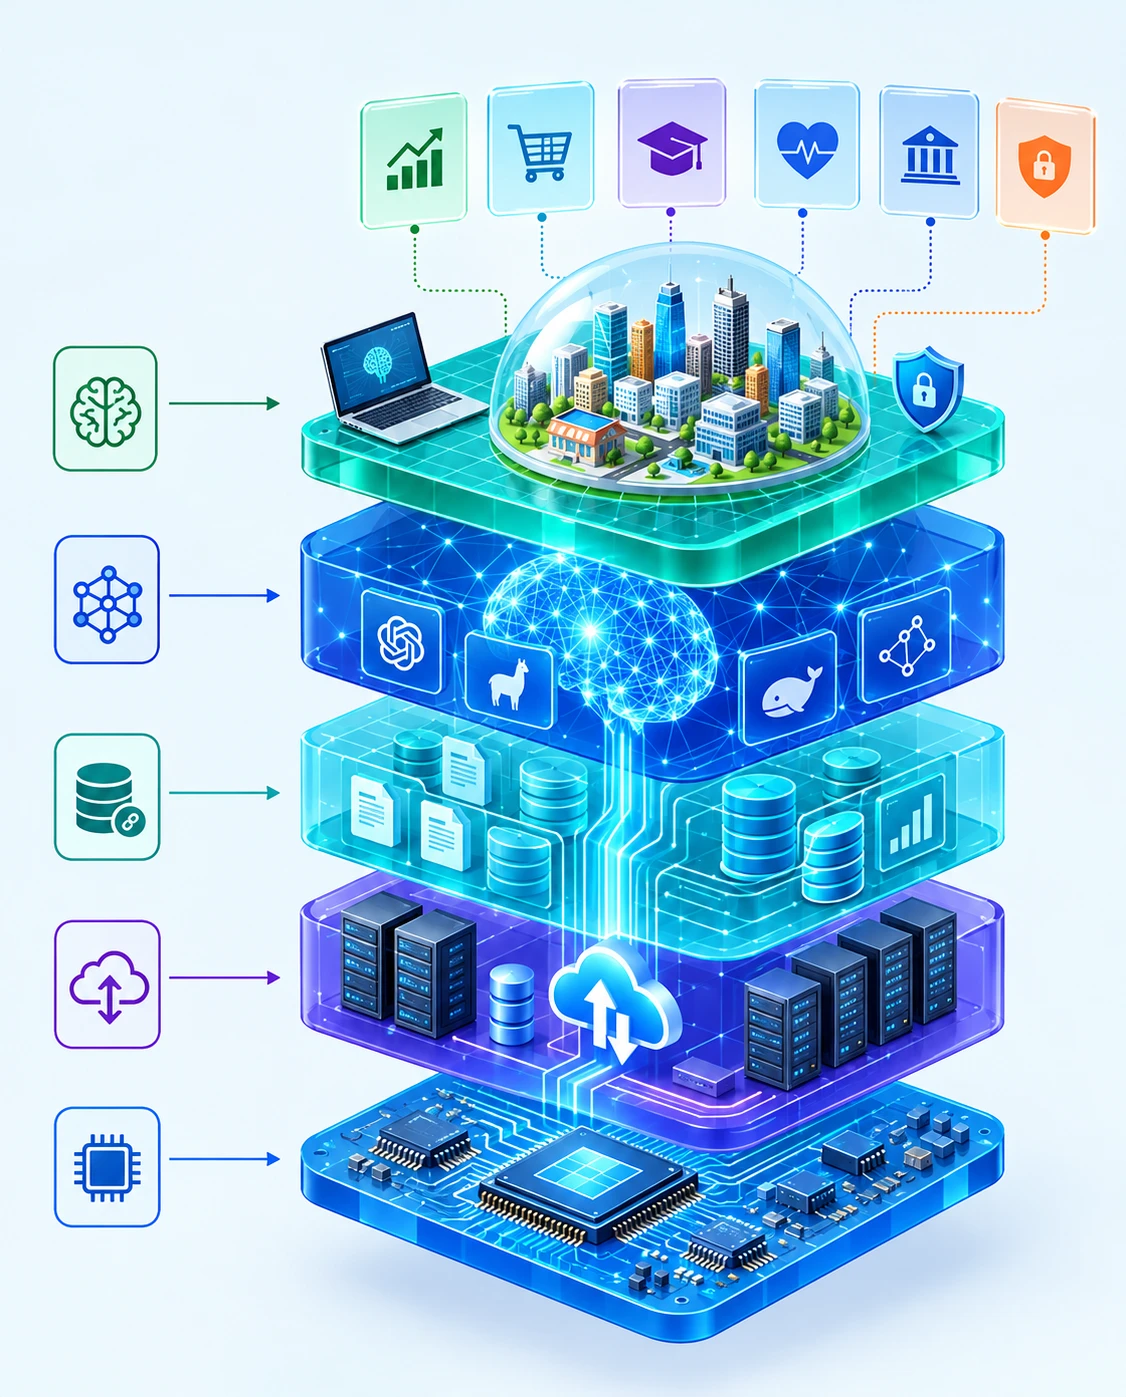
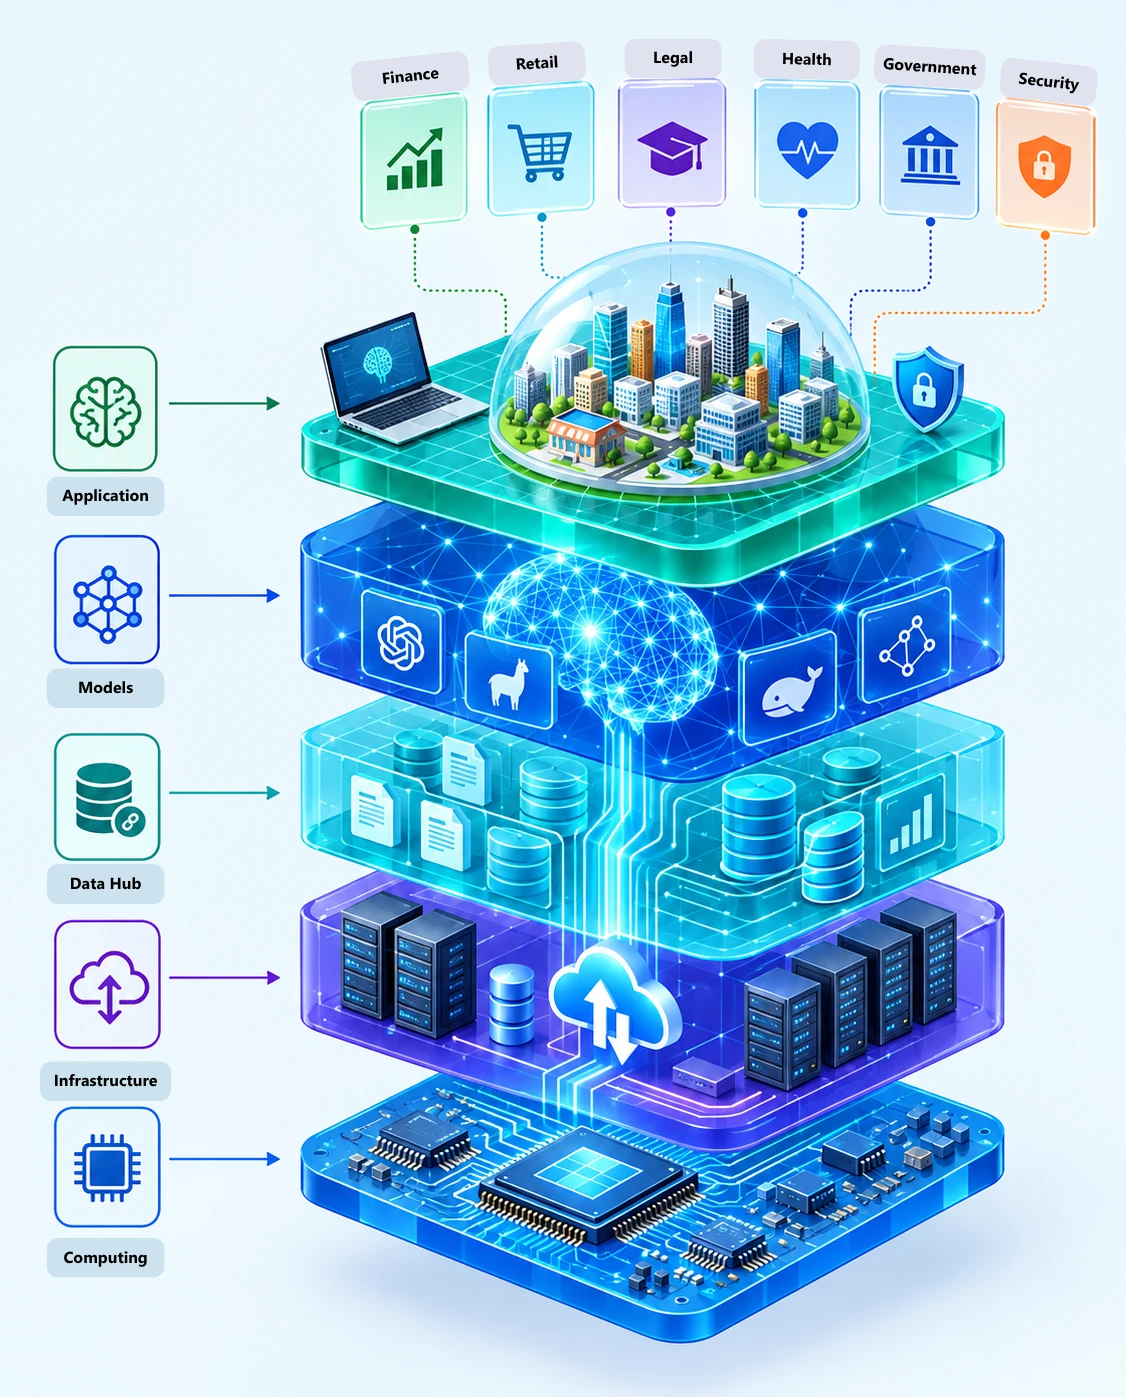
Take the labelled cut of the stack, and describe it properly
The illustration now names its own layers — computing, infrastructure,
data hub, models, application — and the industries across the top. Same
1126x1397 frame, so nothing about the layout moves.

WebP of the three formats offered. The SVG is 2.6MB and buys nothing: its
illustration is a base64 raster at the same pixel size with only the
labels as vector, and the hero renders the whole thing at 0.374 scale, so
there is no resolution to recover. 280KB against 2.6MB for an identical
result.

The alt text was `section.title`, which reads the offer back to a screen
reader that has just been given it and says nothing about what is on
screen. It describes the picture now, and `meta.imageAlt` overrides it
from a new field on the form.

diff --git a/src/components/sections/hero.tsx b/src/components/sections/hero.tsx
@@ -181,9 +181,13 @@ export function Hero({ section }: { section: SectionWithEntries }) {
               <HeroMedia
                 image={image}
                 video={video}
+                // Describes the picture, not the headline. The first cut of
+                // this passed `section.title`, which reads back the offer a
+                // screen reader has just been given and says nothing about
+                // what is being shown.
                 alt={
-                  section.title ??
-                  "The BasinWright stack, from chips up to the application"
+                  metaString(section.meta, "imageAlt") ??
+                  "The BasinWright stack in five layers — computing at the base, then infrastructure, the data hub, models, and the application on top, serving finance, retail, legal, health, government and security."
                 }
               />
             </motion.div>

diff --git a/src/components/admin/section-form.tsx b/src/components/admin/section-form.tsx
@@ -90,6 +90,14 @@ export function SectionForm({ section }: { section: SectionWithEntries }) {
               defaultValue={String(metaValue(section.meta, "video") ?? "")}
               placeholder="/media/basinwright-explainer.mp4"
             />
+
+            <TextField
+              label="Image description"
+              hint="what the picture shows, for screen readers — not a repeat of the headline"
+              name="metaImageAlt"
+              defaultValue={String(metaValue(section.meta, "imageAlt") ?? "")}
+              className="sm:col-span-2"
+            />
           </div>
         </>
       ) : null}

diff --git a/src/app/admin/actions.ts b/src/app/admin/actions.ts
@@ -108,6 +108,7 @@ export async function updateSection(
 
     const image = optional(formData.get("metaImage"));
     const video = optional(formData.get("metaVideo"));
+    const imageAlt = optional(formData.get("metaImageAlt"));
 
     // Checked at write time so a bad path fails in the form, rather than
     // silently rendering nothing on the homepage. A file under `public/` or an
@@ -121,7 +122,7 @@ export async function updateSection(
       }
     }
 
-    meta = { ...existing, ...meta, image, video };
+    meta = { ...existing, ...meta, image, video, imageAlt };
   }
 
   try {
